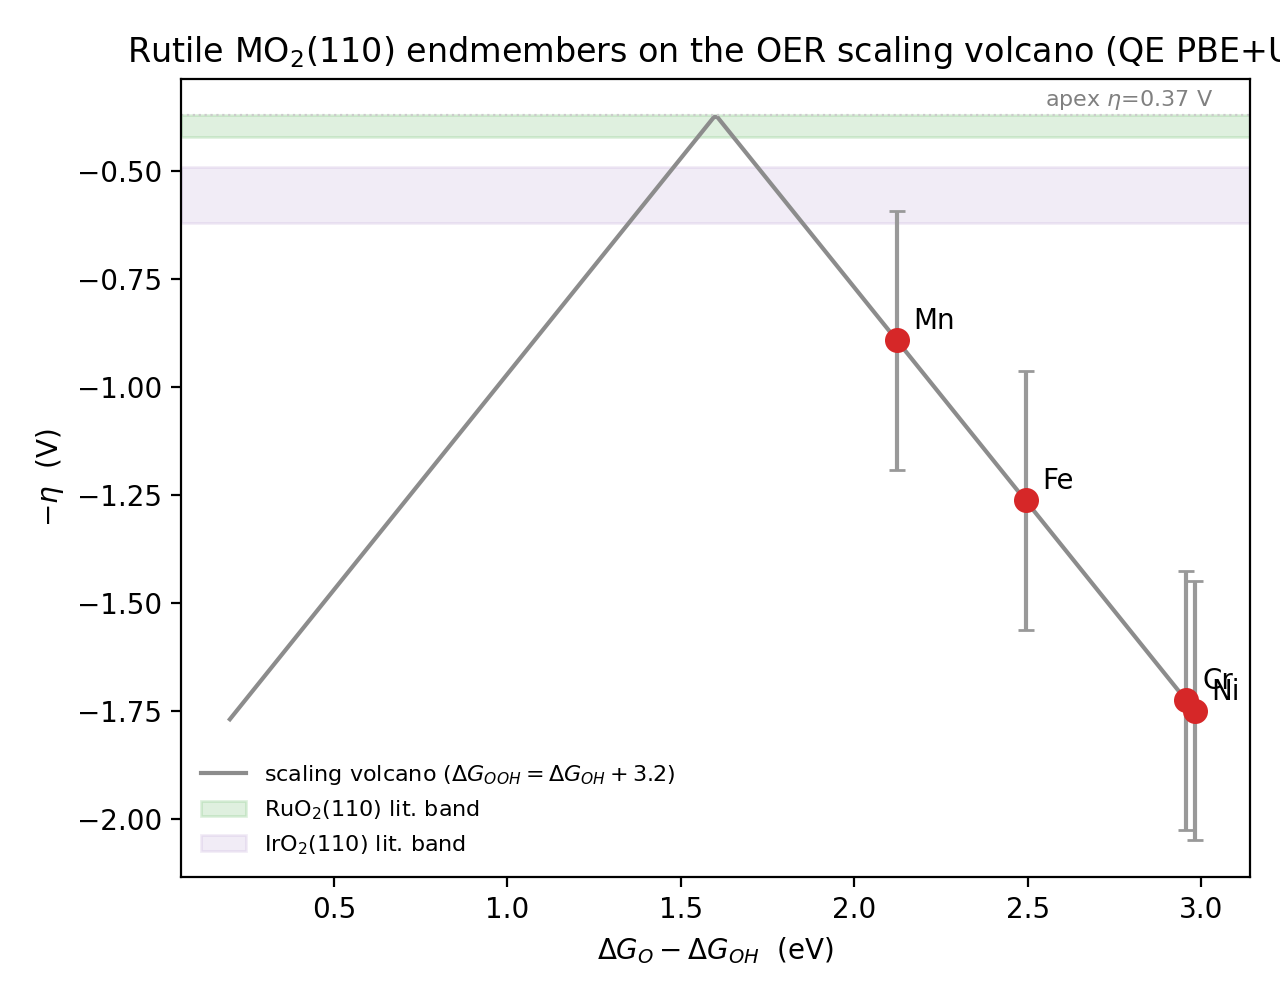
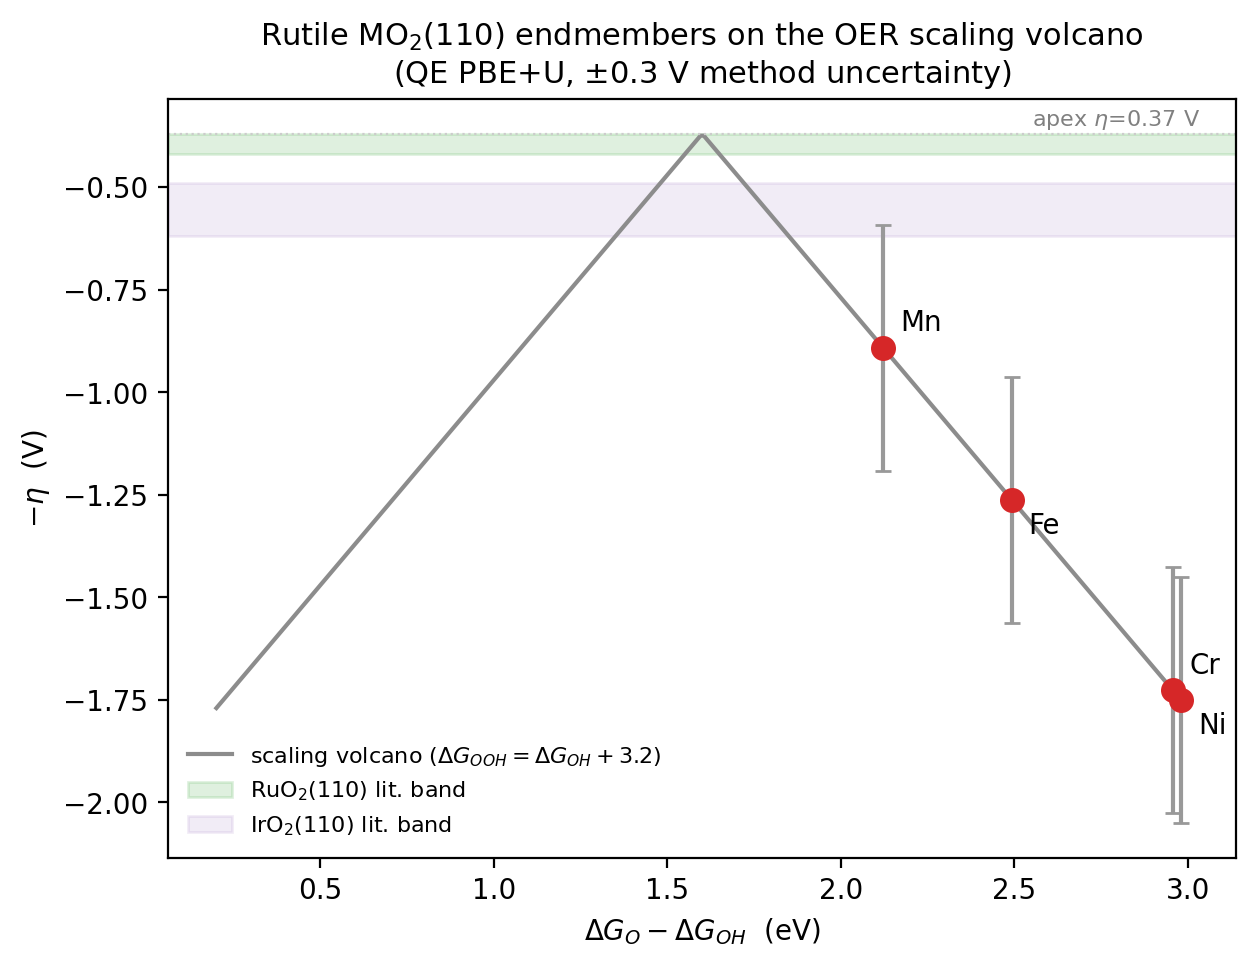
R1 free reanalysis DONE: all 4 endmembers sit on the scaling line far off-apex (step-2 limited), Mn is the only one near a real-electrode band, NiO2 breaks OOH/OH scaling by -0.51 eV (flagged as hypothesis, fictitious phase)

diff --git a/src/dft/volcano_r1.py b/src/dft/volcano_r1.py
@@ -88,17 +88,23 @@ def main():
     ax.annotate("apex $\\eta$=0.37 V", (2.55, -0.35), fontsize=8, color="0.5")
     ax.axhspan(-0.42, -0.37, color="#2ca02c", alpha=0.15, label="RuO$_2$(110) lit. band")
     ax.axhspan(-0.62, -0.49, color="#9467bd", alpha=0.12, label="IrO$_2$(110) lit. band")
-    for r in rows:
+    # alternate label offsets so near-degenerate points (Cr/Ni) don't collide
+    order = sorted(range(len(rows)), key=lambda i: rows[i]["descriptor_eV"])
+    offs = {}
+    for rank, i in enumerate(order):
+        offs[i] = (6, 6) if rank % 2 == 0 else (6, -12)
+    for i, r in enumerate(rows):
         ax.errorbar(r["descriptor_eV"], -r["eta_V"], yerr=ETA_ERR, fmt="o", ms=8,
                     color="#d62728", ecolor="0.6", capsize=3, zorder=3)
         ax.annotate(r["metal"], (r["descriptor_eV"], -r["eta_V"]),
-                    xytext=(6, 4), textcoords="offset points", fontsize=10)
+                    xytext=offs[i], textcoords="offset points", fontsize=10)
     ax.set_xlabel(r"$\Delta G_{O} - \Delta G_{OH}$  (eV)")
     ax.set_ylabel(r"$-\eta$  (V)")
-    ax.set_title("Rutile MO$_2$(110) endmembers on the OER scaling volcano (QE PBE+U)")
+    ax.set_title("Rutile MO$_2$(110) endmembers on the OER scaling volcano\n(QE PBE+U, "
+                 r"$\pm$0.3 V method uncertainty)", fontsize=11)
     ax.legend(loc="lower left", fontsize=8, frameon=False)
     fig.tight_layout()
-    fig.savefig(OUT + ".png", dpi=200)
+    fig.savefig(OUT + ".png", dpi=200, bbox_inches="tight")
     print(f"-> {OUT}.png")
 
 

diff --git a/docs/29-r0-oc22-reparity.md b/docs/29-r0-oc22-reparity.md
@@ -96,6 +96,40 @@ was old" — both change at once otherwise.
 | **RuO₂ anchor** | lit. 0.37–0.42 | — | | |
 | **IrO₂ anchor** | lit. ≈ 0.56 | — | | |
 
+## 4b. R1 free reanalysis (docs/28 §4 F1–F3) — DONE, zero new compute
+
+`src/dft/volcano_r1.py` → `docs/figs/volcano_endmembers.{json,png}`. No new DFT: this is
+the existing four `dft_eta.json` re-read through the volcano/G_max lens.
+
+| M | x = ΔG_O − ΔG_OH (eV) | ΔG_OOH − ΔG_OH (eV) | η (V) | limiting step | G_max(η=0.3 V) (eV) |
+|---|---|---|---|---|---|
+| Mn | 2.122 | 3.082 | 0.892 | 2 | 0.969 |
+| Fe | 2.493 | 3.087 | 1.263 | 2 | 1.567 |
+| Cr | 2.956 | 3.281 | 1.726 | 2 | 1.426 |
+| Ni | 2.981 | 2.686 | 1.751 | 2 | 2.437 |
+
+Three findings, all free:
+
+1. **All four sit on the scaling line, far out on the weak-O-binding leg.** Every
+   descriptor is x = 2.1–3.0 eV against an apex of ≈1.6, and every point is *OH→*O
+   (step-2) limited. The reason none of these endmembers is a good catalyst is therefore
+   not incidental — they are descriptor-limited in the way the universal scaling relation
+   predicts. This is the quantitative motivation for the whole HEA
+   scaling-breaking thesis (docs/12 §3b), stated in the field's own coordinates.
+2. **Mn is the only endmember within error of a real electrode band.** η = 0.892 ± 0.3 V;
+   the IrO₂ literature band (≈0.56 V) is ~1σ away, RuO₂ (0.37–0.42 V) is not. Mn being
+   both the best DFT point *and* the only ambient-stable rutile (docs/28 §3, β-MnO₂
+   pyrolusite) is a consistency worth stating: the physics and the stability gate agree.
+3. **NiO₂ breaks *OOH/*OH scaling by −0.51 eV** (2.686 vs the universal 3.2 ± 0.2) — the
+   only endmember outside the scatter band. That cuts both ways and must not be
+   over-claimed: it is the signature the project *wants* (scaling-relation breaking), but
+   it appears on a fictitious ambient phase (NiO₂ is layered, not rutile — docs/28 §3),
+   at one cus site, with ±0.2–0.4 V method error. Filed as a hypothesis for R1's
+   magnetic/termination protocol to confirm or kill, not as a result.
+
+G_max ranks the same as η here (Mn best), so the kinetics-aware descriptor does not
+overturn the thermodynamic ordering at this level — one fewer confound to worry about.
+
 ## 5. Compute ledger
 
 - Box: Vast.ai RTX 4090 (instance 45735789, $0.357/hr), `pytorch/pytorch:2.7.1-cuda12.8`
